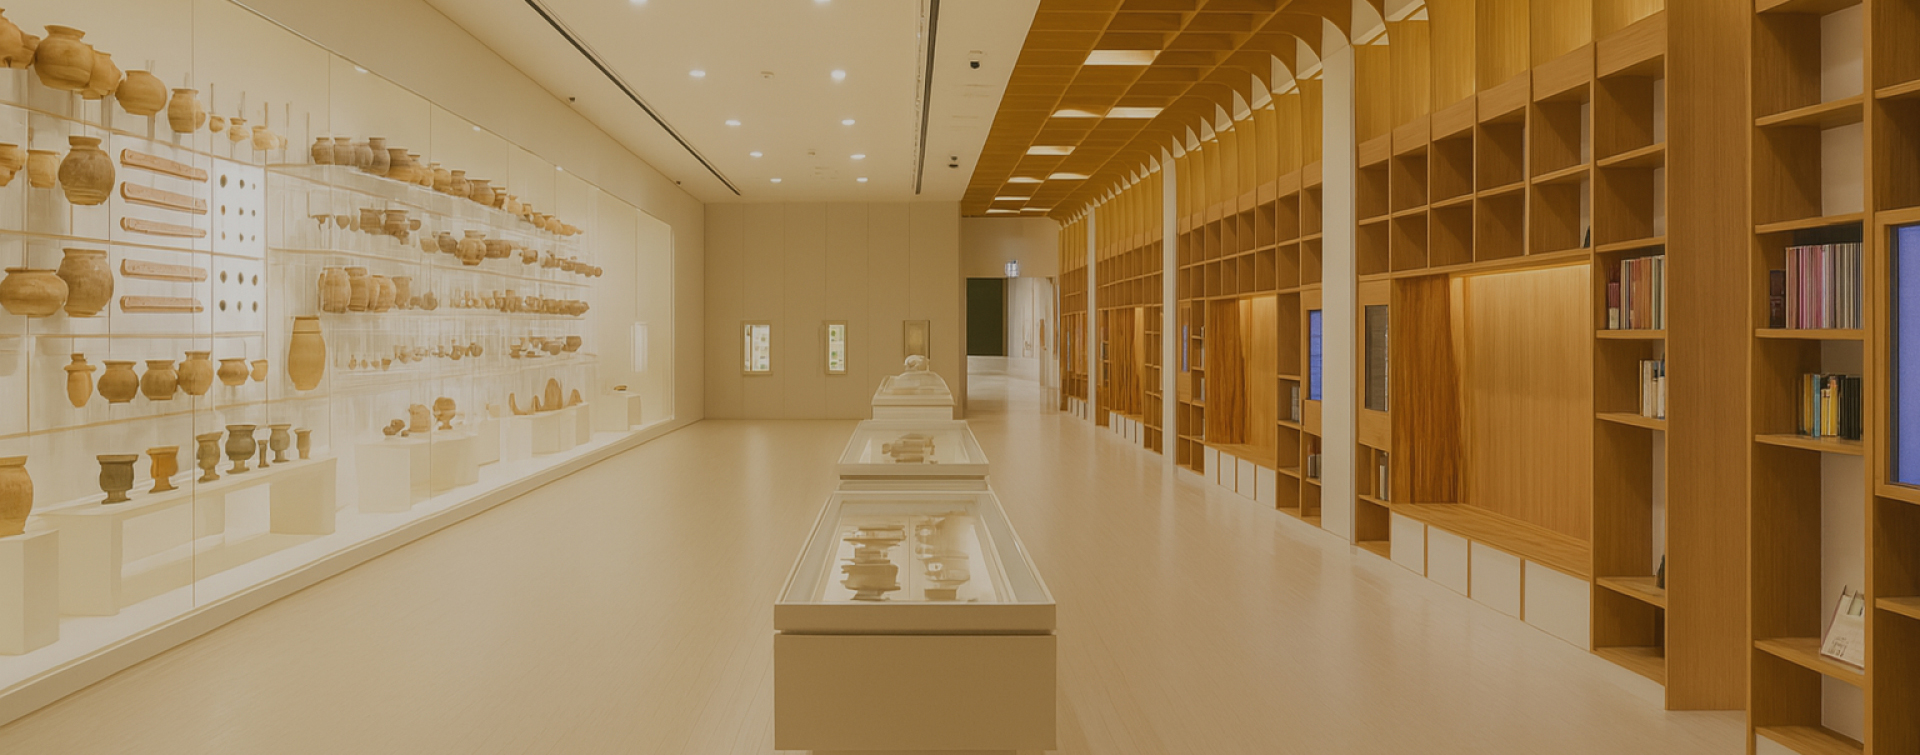
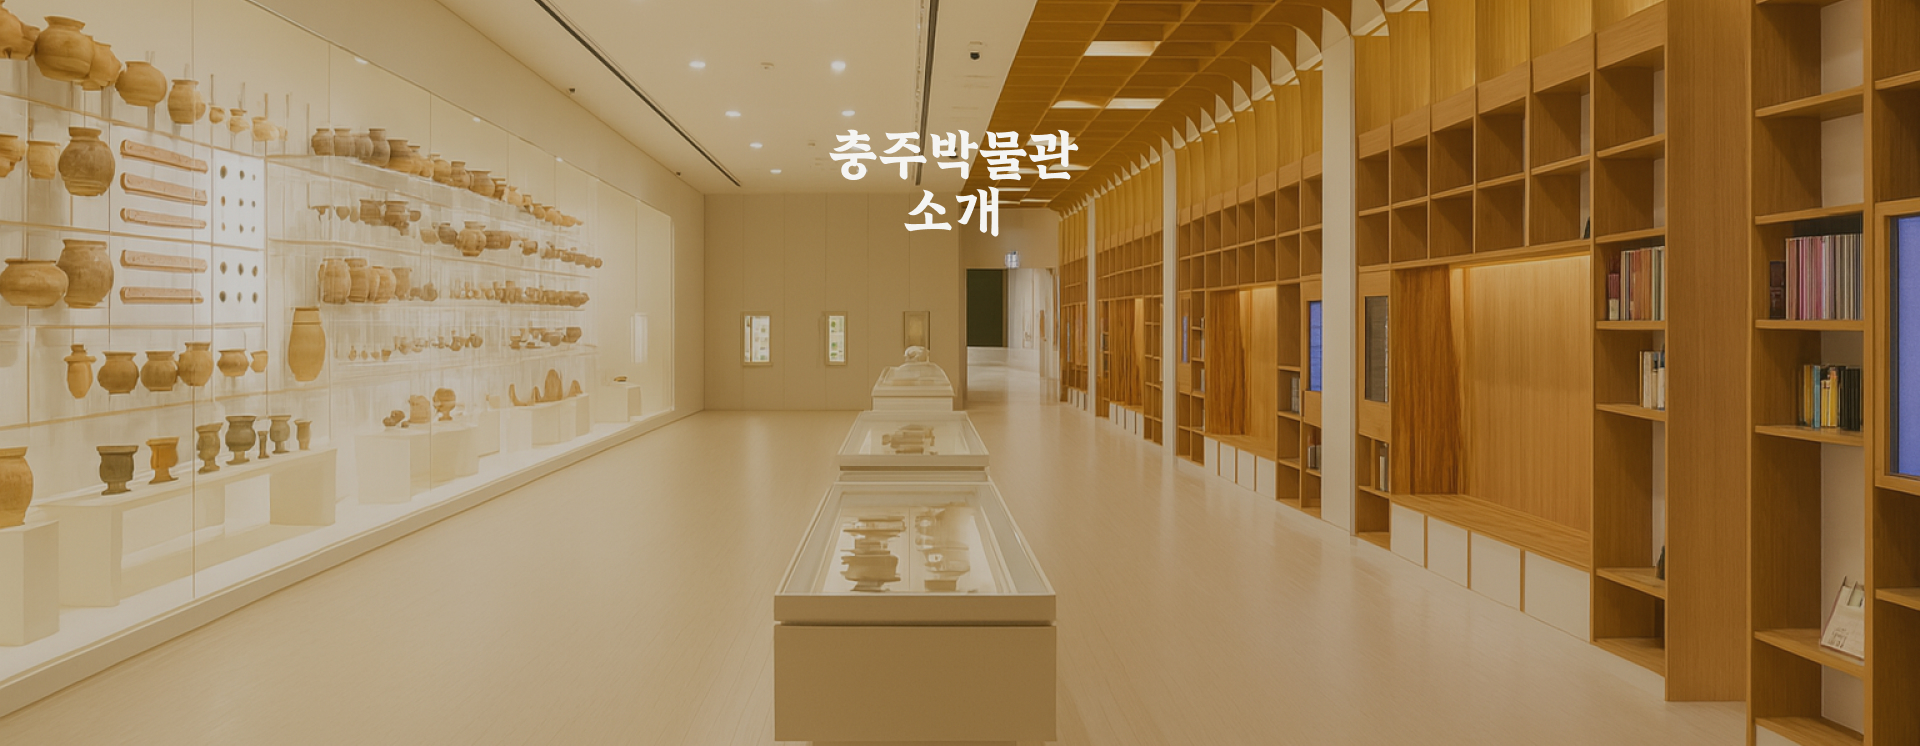
Add files via upload

diff --git a/js/script.js b/js/script.js
@@ -1,69 +1,61 @@
 document.addEventListener("DOMContentLoaded", () => {
-    const img = document.getElementById('newsImage');
-console.log(img);
-const items = document.querySelectorAll('.news-ul li');
-console.log(items)
+  const img = document.getElementById("newsImage");
+  console.log(img);
+  const items = document.querySelectorAll(".news-ul li");
+  console.log(items);
 
-const images = [
-    './images/news1.jpg.jpg',
-    './images/news2.jpg.jpg',
-    './images/news3.jpg.jpg',
-    './images/news4.jpg.jpg',
-    './images/news5.jpg.jpg',
-    './images/news6.jpg.jpg'
-];
+  const images = [
+    "./images/news1.jpg.jpg",
+    "./images/news2.jpg.jpg",
+    "./images/news3.jpg.jpg",
+    "./images/news4.jpg.jpg",
+    "./images/news5.jpg.jpg",
+    "./images/news6.jpg.jpg",
+  ];
 
-items.forEach((li, index) => {
-    li.addEventListener('mouseenter', () => {
-        img.src = images[index];
+  items.forEach((li, index) => {
+    li.addEventListener("mouseenter", () => {
+      img.src = images[index];
     });
+  });
 });
-})
-
 
 /*------------------------------------------------------*/
-
-
-
 
 // 1. 초기 인덱스 설정 (0: 첫 번째 이미지)
 let currentIndex = 0;
 
 // 2. 슬라이드 변경 함수
 function changeSlide(direction) {
-    // 배경 이미지들과 제목 요소를 가져옵니다.
-    const images = document.querySelectorAll('.bg-img');
-    const titleElement = document.getElementById('intro-title');
-    
-    // 사진 순서에 맞게 바뀔 제목들을 배열로 만듭니다.
-    const titles = [
-        "충주박물관<br>소개",
-        "",      // images/museum-intro.jpg 일 때
-        ""        // images/collection.jpg 일 때
-    ];
+  // 배경 이미지들과 제목 요소를 가져옵니다.
+  const images = document.querySelectorAll(".bg-img");
+  const titleElement = document.getElementById("intro-title");
 
-    // [Step 1] 현재 활성화된 이미지에서 active 클래스 제거
-    images[currentIndex].classList.remove('active');
+  // 사진 순서에 맞게 바뀔 제목들을 배열로 만듭니다.
+  const titles = [
+    "충주박물관<br>소개",
+    "", // images/museum-intro.jpg 일 때
+    "", // images/collection.jpg 일 때
+  ];
 
-    // [Step 2] 다음 인덱스 계산
-    currentIndex += direction;
+  // [Step 1] 현재 활성화된 이미지에서 active 클래스 제거
+  images[currentIndex].classList.remove("active");
 
-    // 마지막 이미지에서 다음을 누르면 처음으로, 첫 번째에서 이전을 누르면 마지막으로 보냄
-    if (currentIndex >= images.length) {
-        currentIndex = 0;
-    } else if (currentIndex < 0) {
-        currentIndex = images.length - 1;
-    }
+  // [Step 2] 다음 인덱스 계산
+  currentIndex += direction;
 
-    // [Step 3] 새로운 이미지에 active 클래스 추가
-    images[currentIndex].classList.add('active');
+  // 마지막 이미지에서 다음을 누르면 처음으로, 첫 번째에서 이전을 누르면 마지막으로 보냄
+  if (currentIndex >= images.length) {
+    currentIndex = 0;
+  } else if (currentIndex < 0) {
+    currentIndex = images.length - 1;
+  }
 
-    // [Step 4] 제목 텍스트 변경
-    if (titleElement) {
-        titleElement.innerHTML = titles[currentIndex];
-    }
+  // [Step 3] 새로운 이미지에 active 클래스 추가
+  images[currentIndex].classList.add("active");
+
+  // [Step 4] 제목 텍스트 변경
+  if (titleElement) {
+    titleElement.innerHTML = titles[currentIndex];
+  }
 }
-
-
-
-

diff --git a/exhibition.html b/exhibition.html
@@ -121,7 +121,9 @@
             <div class="banner"><img src="images/sub3.jpg" alt="배너"></div>
             <div class="sectionabout"><img src="images/sub4.jpg" alt="전시관 소개"></div>
             <div class="container1"><img src="images/sub5.jpg" alt="제1관"></div>
+
             <div class="container2"><img src="images/sub6.jpg" alt="제2관"></div>
+
             <div class="container3"><img src="images/sub7.jpg" alt="디지털실험관"></div>
         </div>
 
